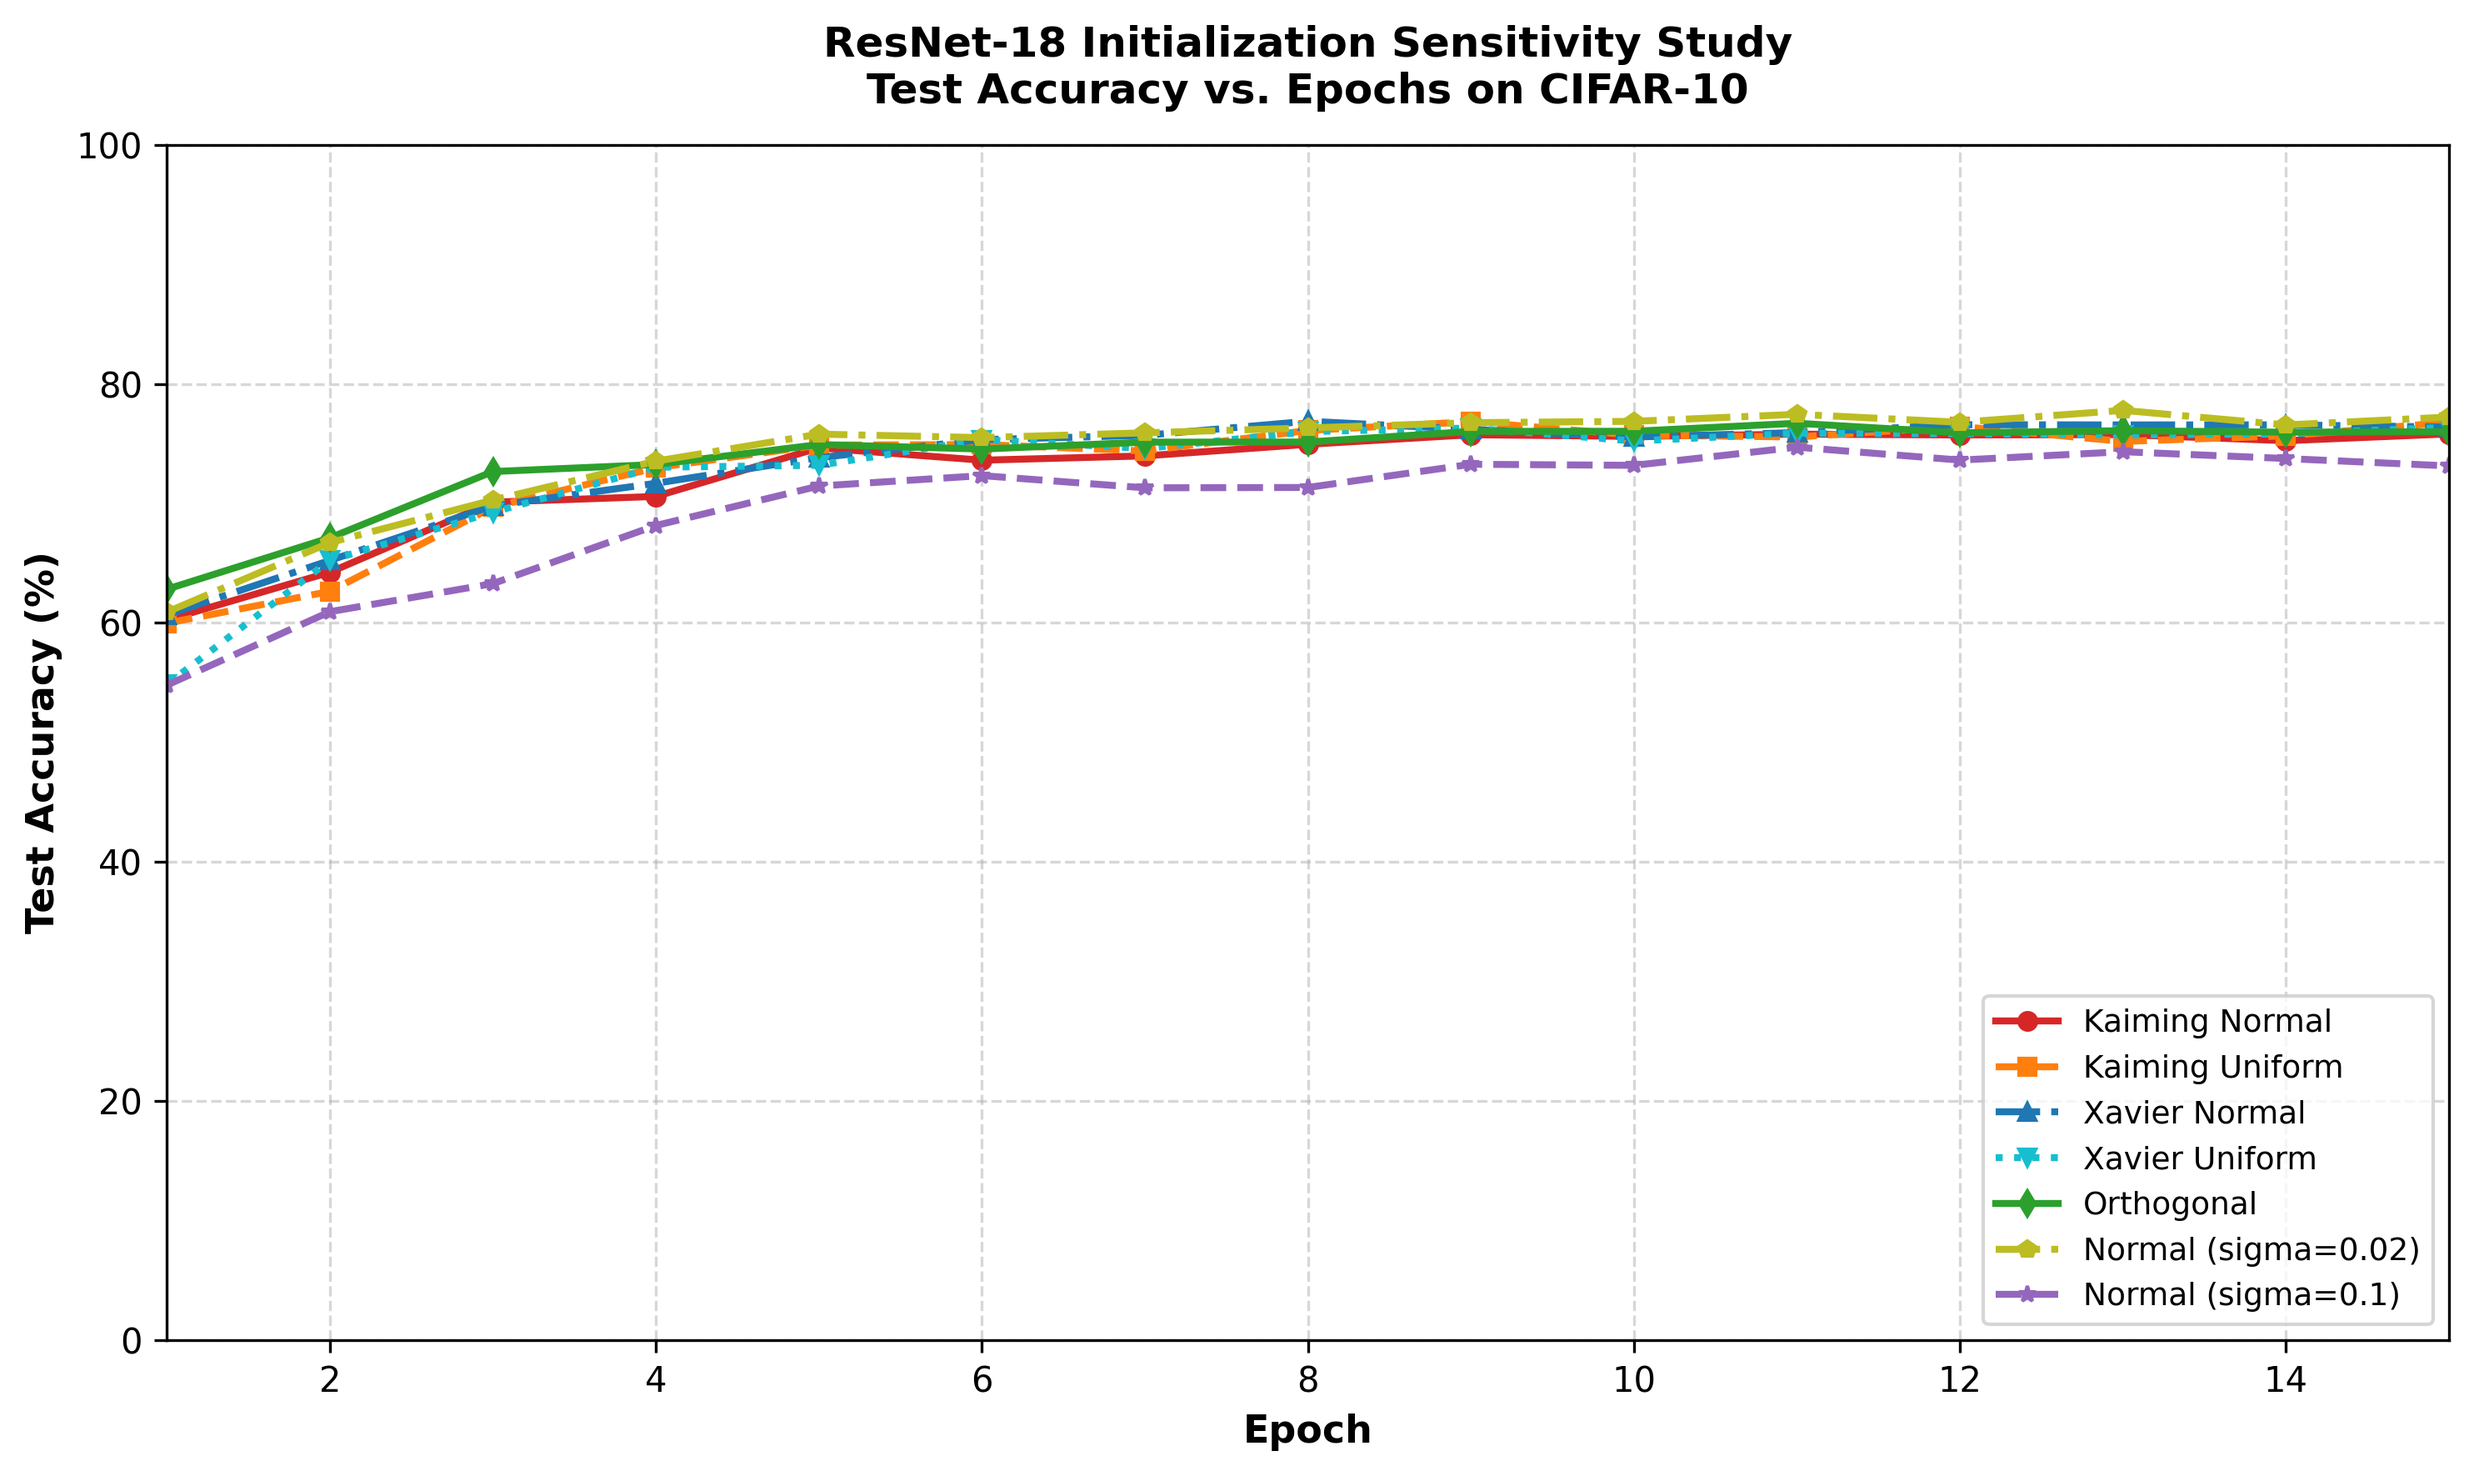
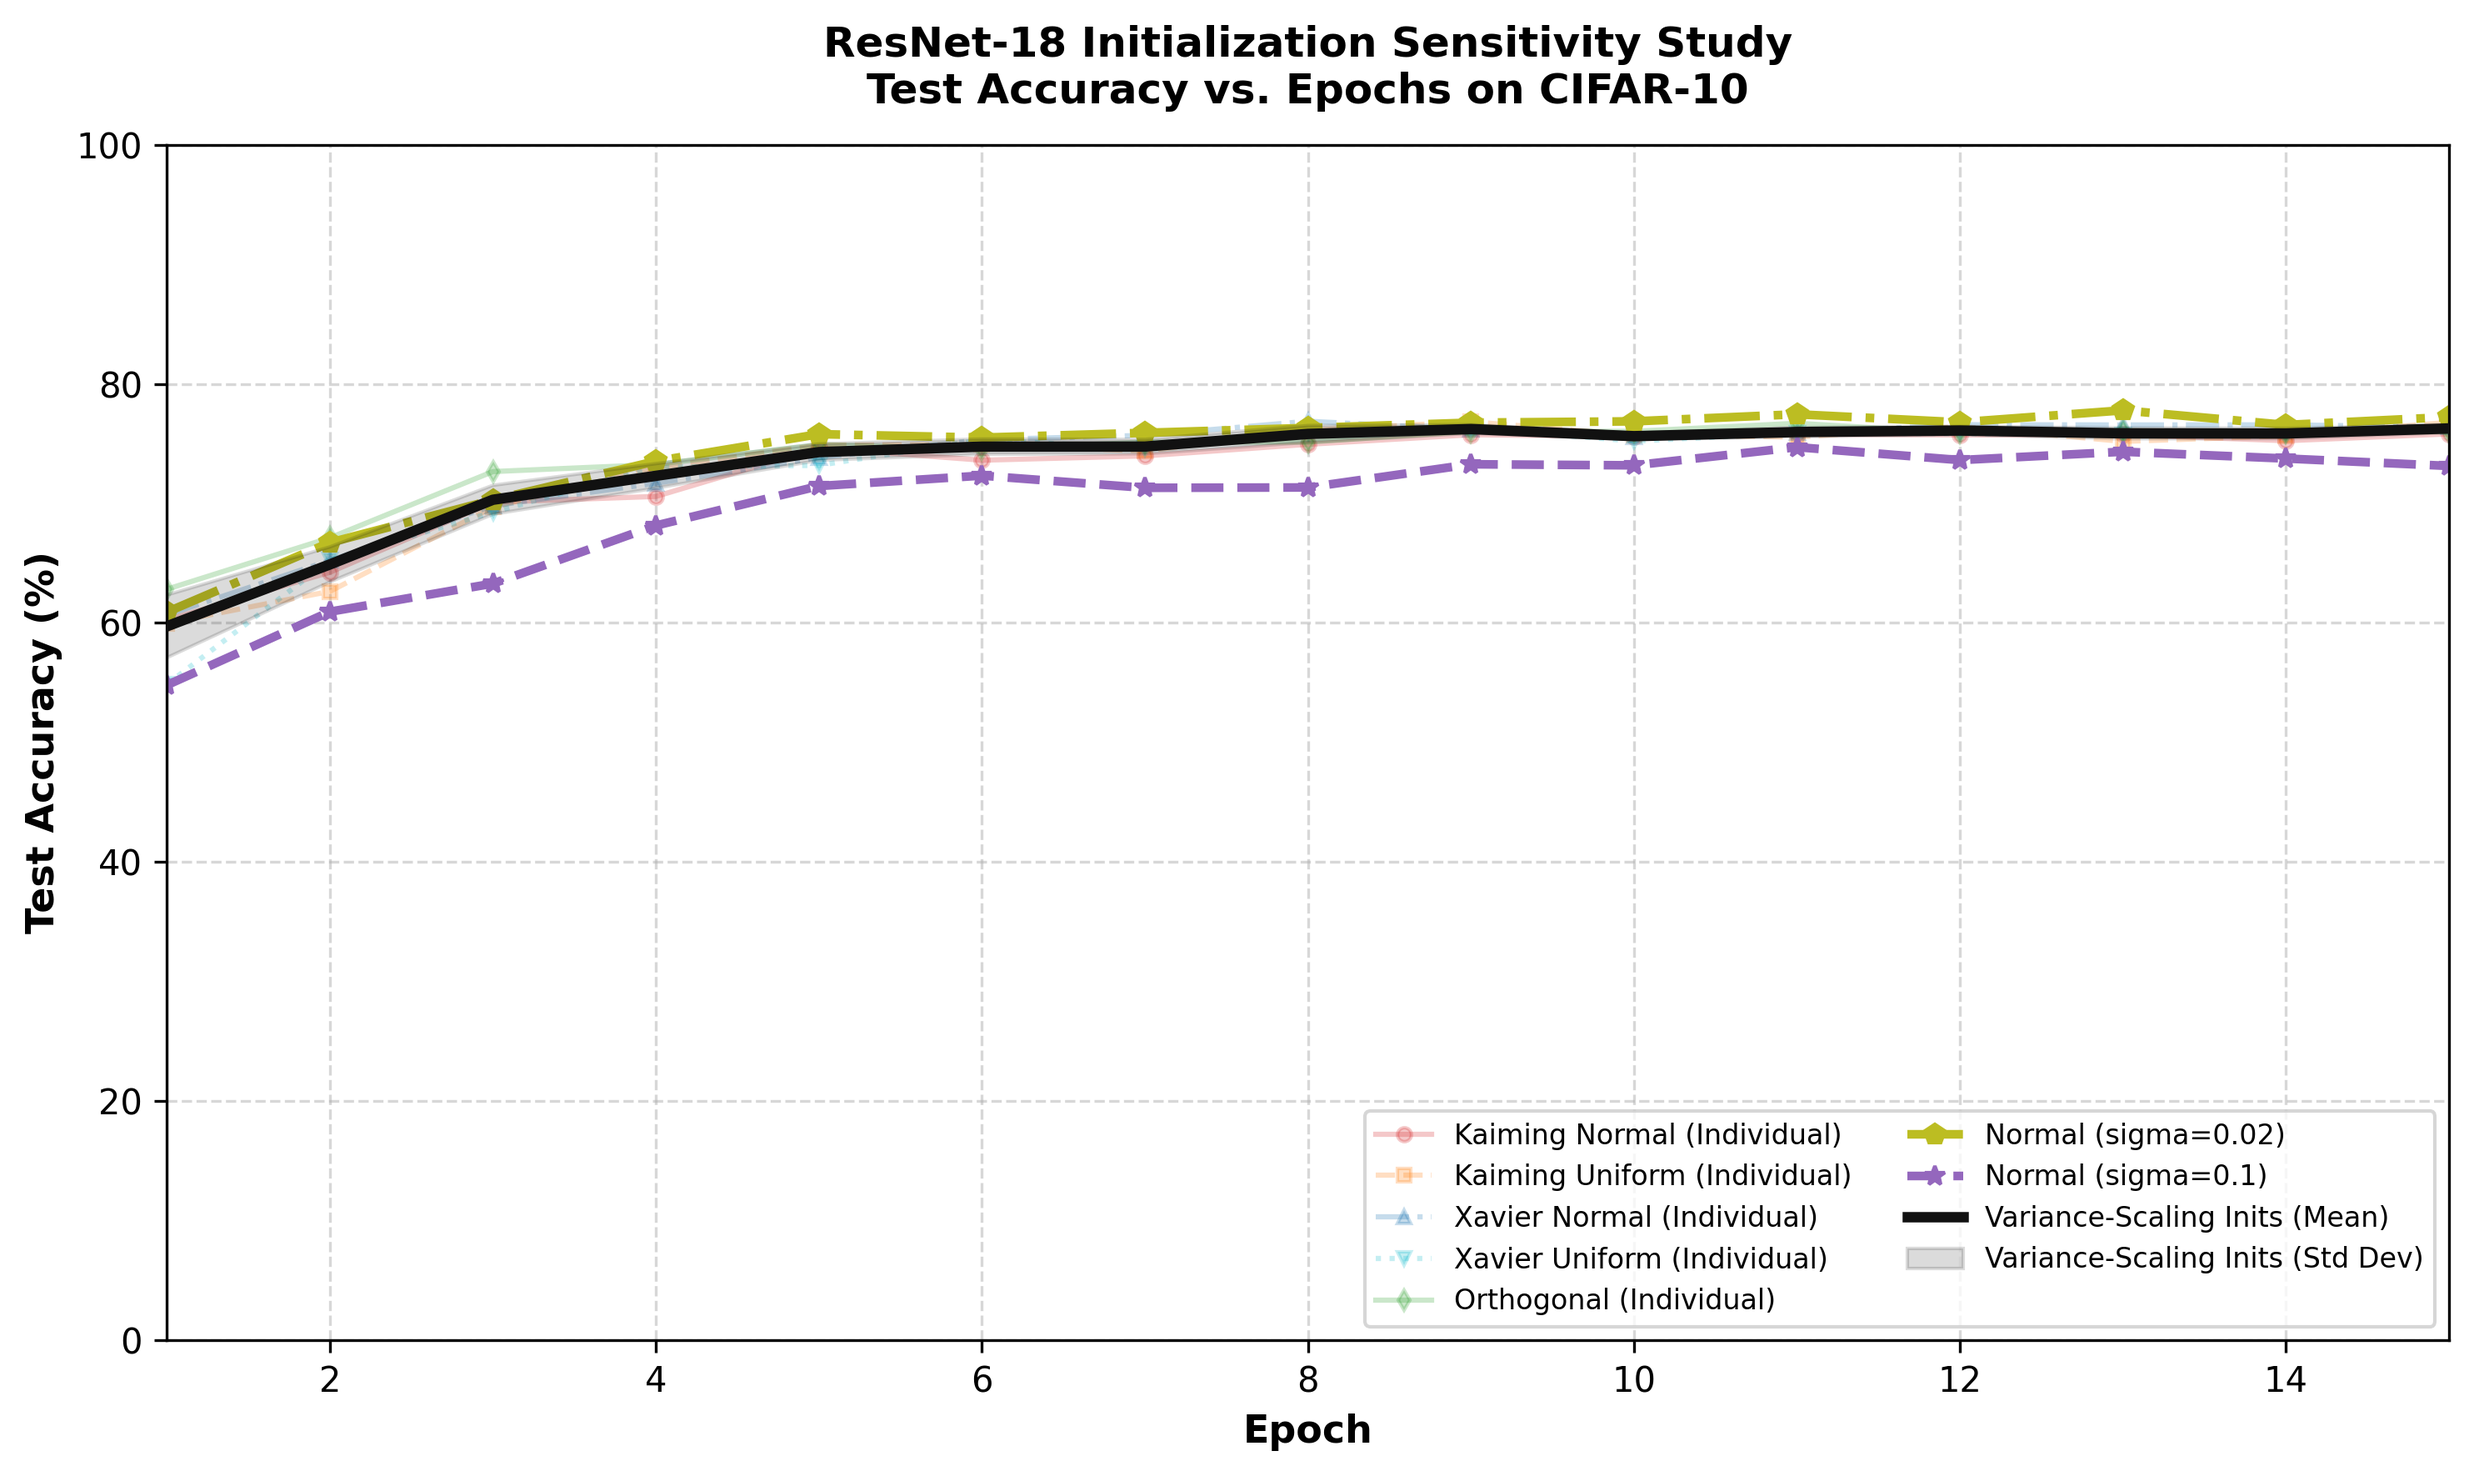
feat: add variance-scaling mean and standard deviation shading representation to initialization sensitivity sweeps for VGG16 and ResNet18

Changed region(s): [[0.062, 0.2795, 0.9916, 0.4658], [0.7747, 0.6832, 0.9916, 0.9006], [0.5578, 0.7453, 0.7437, 0.9006]]

diff --git a/scripts/plotting/plot_vgg16_init_layer_metrics.py b/scripts/plotting/plot_vgg16_init_layer_metrics.py
@@ -22,6 +22,9 @@ styles = {
     'Normal (sigma=0.1)': {'color': '#9467bd', 'marker': 'x', 'linestyle': '--'}
 }
 
+# Standard variance-scaling methods to group together
+var_scaling_methods = ['Kaiming Normal', 'Kaiming Uniform', 'Xavier Normal', 'Xavier Uniform', 'Orthogonal']
+
 # Custom sorting order key function for VGG-16 layers
 def get_vgg_layer_order(name):
     if name.startswith('features.'):
@@ -81,22 +84,68 @@ for ax in [ax1, ax2]:
 ax1.set_title('Layer-wise Capacity Distribution\nActive Weights to Total Weights Ratio (VGG-16 Initialization Sensitivity Sweep)', fontsize=12, fontweight='bold')
 ax1.set_ylabel('Active Weights Ratio', fontsize=11)
 
-for method, data in layer_data.items():
-    ax1.plot(data['layers'], data['weights_ratio'], 
-             color=styles[method]['color'], marker=styles[method]['marker'], 
-             linestyle=styles[method]['linestyle'], label=method, linewidth=2, markersize=7)
-
-ax1.legend(loc='upper right', frameon=True)
-
 # Plot 2: Active Neurons Ratio
 ax2.set_title('Layer-wise Neuron Retention\nActive Neurons to Total Neurons Ratio (VGG-16 Initialization Sensitivity Sweep)', fontsize=12, fontweight='bold')
 ax2.set_ylabel('Active Neurons Ratio', fontsize=11)
 ax2.set_xlabel('Network Layer Name', fontsize=11)
 
+# Plot individual lines
+layers_list = None
+var_scaling_w_ratios = []
+var_scaling_n_ratios = []
+
 for method, data in layer_data.items():
-    ax2.plot(data['layers'], data['neurons_ratio'], 
-             color=styles[method]['color'], marker=styles[method]['marker'], 
-             linestyle=styles[method]['linestyle'], label=method, linewidth=2, markersize=7)
+    layers_list = data['layers']
+    
+    if method in var_scaling_methods:
+        var_scaling_w_ratios.append(data['weights_ratio'])
+        var_scaling_n_ratios.append(data['neurons_ratio'])
+        
+        # Plot individual variance scaling layers with high transparency
+        ax1.plot(data['layers'], data['weights_ratio'], 
+                 color=styles[method]['color'], marker=styles[method]['marker'], 
+                 linestyle=styles[method]['linestyle'], alpha=0.25, linewidth=1.5, markersize=5,
+                 label=f"{method} (Individual)")
+        ax2.plot(data['layers'], data['neurons_ratio'], 
+                 color=styles[method]['color'], marker=styles[method]['marker'], 
+                 linestyle=styles[method]['linestyle'], alpha=0.25, linewidth=1.5, markersize=5,
+                 label=f"{method} (Individual)")
+    else:
+        # Plot out-of-scale layers fully opaque
+        ax1.plot(data['layers'], data['weights_ratio'], 
+                 color=styles[method]['color'], marker=styles[method]['marker'], 
+                 linestyle=styles[method]['linestyle'], linewidth=2.5, markersize=7,
+                 label=method, alpha=1.0)
+        ax2.plot(data['layers'], data['neurons_ratio'], 
+                 color=styles[method]['color'], marker=styles[method]['marker'], 
+                 linestyle=styles[method]['linestyle'], linewidth=2.5, markersize=7,
+                 label=method, alpha=1.0)
+
+# Compute and plot mean & std dev shading for Variance-Scaling initializations
+if var_scaling_w_ratios:
+    var_scaling_w_ratios = np.array(var_scaling_w_ratios)
+    var_scaling_n_ratios = np.array(var_scaling_n_ratios)
+    
+    mean_w = np.mean(var_scaling_w_ratios, axis=0)
+    std_w = np.std(var_scaling_w_ratios, axis=0)
+    
+    mean_n = np.mean(var_scaling_n_ratios, axis=0)
+    std_n = np.std(var_scaling_n_ratios, axis=0)
+    
+    # Plot Means
+    ax1.plot(layers_list, mean_w, color='#111111', linestyle='-', linewidth=3.0, 
+             label='Variance-Scaling Inits (Mean)', zorder=5)
+    ax2.plot(layers_list, mean_n, color='#111111', linestyle='-', linewidth=3.0, 
+             label='Variance-Scaling Inits (Mean)', zorder=5)
+             
+    # Plot Shaded Std Devs
+    x_indices = np.arange(len(layers_list))
+    ax1.fill_between(layers_list, mean_w - std_w, mean_w + std_w, 
+                     color='#111111', alpha=0.15, label='Variance-Scaling Inits (Std Dev)', zorder=4)
+    ax2.fill_between(layers_list, mean_n - std_n, mean_n + std_n, 
+                     color='#111111', alpha=0.15, label='Variance-Scaling Inits (Std Dev)', zorder=4)
+
+ax1.legend(loc='upper right', frameon=True, fontsize=8, ncol=2)
 
 # Format X-axis tick labels
 plt.xticks(rotation=45, ha='right', fontsize=9)

diff --git a/scripts/plotting/plot_resnet18_init_layer_metrics.py b/scripts/plotting/plot_resnet18_init_layer_metrics.py
@@ -24,6 +24,9 @@ styles = {
     'Normal (sigma=0.1)': {'color': '#9467bd', 'marker': 'x', 'linestyle': '--'}
 }
 
+# Standard variance-scaling methods to group together
+var_scaling_methods = ['Kaiming Normal', 'Kaiming Uniform', 'Xavier Normal', 'Xavier Uniform', 'Orthogonal']
+
 # Custom sorting order key function for ResNet-18 layers
 def get_layer_order(name):
     if name == 'conv1':
@@ -90,22 +93,67 @@ for ax in [ax1, ax2]:
 ax1.set_title('Layer-wise Capacity Distribution\nActive Weights to Total Weights Ratio (ResNet-18 Initialization Sensitivity Sweep)', fontsize=12, fontweight='bold')
 ax1.set_ylabel('Active Weights Ratio', fontsize=11)
 
-for method, data in layer_data.items():
-    ax1.plot(data['layers'], data['weights_ratio'], 
-             color=styles[method]['color'], marker=styles[method]['marker'], 
-             linestyle=styles[method]['linestyle'], label=method, linewidth=2, markersize=7)
-
-ax1.legend(loc='upper right', frameon=True)
-
 # Plot 2: Active Neurons Ratio
 ax2.set_title('Layer-wise Neuron Retention\nActive Neurons to Total Neurons Ratio (ResNet-18 Initialization Sensitivity Sweep)', fontsize=12, fontweight='bold')
 ax2.set_ylabel('Active Neurons Ratio', fontsize=11)
 ax2.set_xlabel('Network Layer Name', fontsize=11)
 
+# Plot individual lines
+layers_list = None
+var_scaling_w_ratios = []
+var_scaling_n_ratios = []
+
 for method, data in layer_data.items():
-    ax2.plot(data['layers'], data['neurons_ratio'], 
-             color=styles[method]['color'], marker=styles[method]['marker'], 
-             linestyle=styles[method]['linestyle'], label=method, linewidth=2, markersize=7)
+    layers_list = data['layers']
+    
+    if method in var_scaling_methods:
+        var_scaling_w_ratios.append(data['weights_ratio'])
+        var_scaling_n_ratios.append(data['neurons_ratio'])
+        
+        # Plot individual variance scaling layers with high transparency
+        ax1.plot(data['layers'], data['weights_ratio'], 
+                 color=styles[method]['color'], marker=styles[method]['marker'], 
+                 linestyle=styles[method]['linestyle'], alpha=0.25, linewidth=1.5, markersize=5,
+                 label=f"{method} (Individual)")
+        ax2.plot(data['layers'], data['neurons_ratio'], 
+                 color=styles[method]['color'], marker=styles[method]['marker'], 
+                 linestyle=styles[method]['linestyle'], alpha=0.25, linewidth=1.5, markersize=5,
+                 label=f"{method} (Individual)")
+    else:
+        # Plot out-of-scale layers fully opaque
+        ax1.plot(data['layers'], data['weights_ratio'], 
+                 color=styles[method]['color'], marker=styles[method]['marker'], 
+                 linestyle=styles[method]['linestyle'], linewidth=2.5, markersize=7,
+                 label=method, alpha=1.0)
+        ax2.plot(data['layers'], data['neurons_ratio'], 
+                 color=styles[method]['color'], marker=styles[method]['marker'], 
+                 linestyle=styles[method]['linestyle'], linewidth=2.5, markersize=7,
+                 label=method, alpha=1.0)
+
+# Compute and plot mean & std dev shading for Variance-Scaling initializations
+if var_scaling_w_ratios:
+    var_scaling_w_ratios = np.array(var_scaling_w_ratios)
+    var_scaling_n_ratios = np.array(var_scaling_n_ratios)
+    
+    mean_w = np.mean(var_scaling_w_ratios, axis=0)
+    std_w = np.std(var_scaling_w_ratios, axis=0)
+    
+    mean_n = np.mean(var_scaling_n_ratios, axis=0)
+    std_n = np.std(var_scaling_n_ratios, axis=0)
+    
+    # Plot Means
+    ax1.plot(layers_list, mean_w, color='#111111', linestyle='-', linewidth=3.0, 
+             label='Variance-Scaling Inits (Mean)', zorder=5)
+    ax2.plot(layers_list, mean_n, color='#111111', linestyle='-', linewidth=3.0, 
+             label='Variance-Scaling Inits (Mean)', zorder=5)
+             
+    # Plot Shaded Std Devs
+    ax1.fill_between(layers_list, mean_w - std_w, mean_w + std_w, 
+                     color='#111111', alpha=0.15, label='Variance-Scaling Inits (Std Dev)', zorder=4)
+    ax2.fill_between(layers_list, mean_n - std_n, mean_n + std_n, 
+                     color='#111111', alpha=0.15, label='Variance-Scaling Inits (Std Dev)', zorder=4)
+
+ax1.legend(loc='upper right', frameon=True, fontsize=8, ncol=2)
 
 # Format X-axis tick labels
 plt.xticks(rotation=45, ha='right', fontsize=9)
